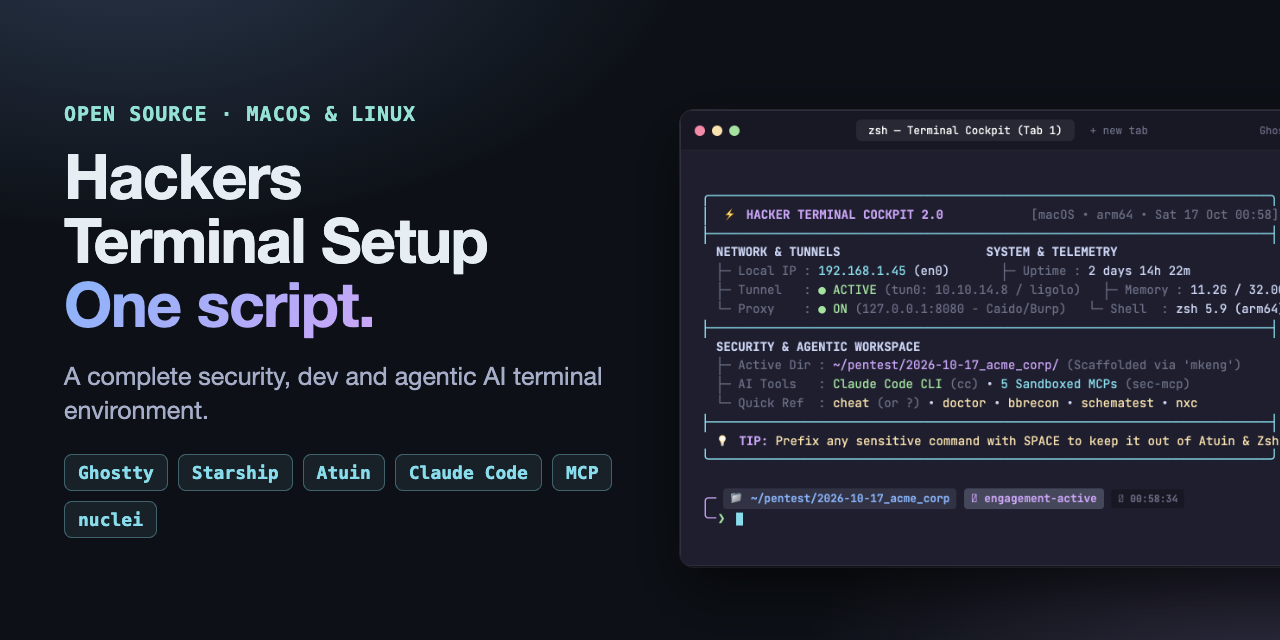
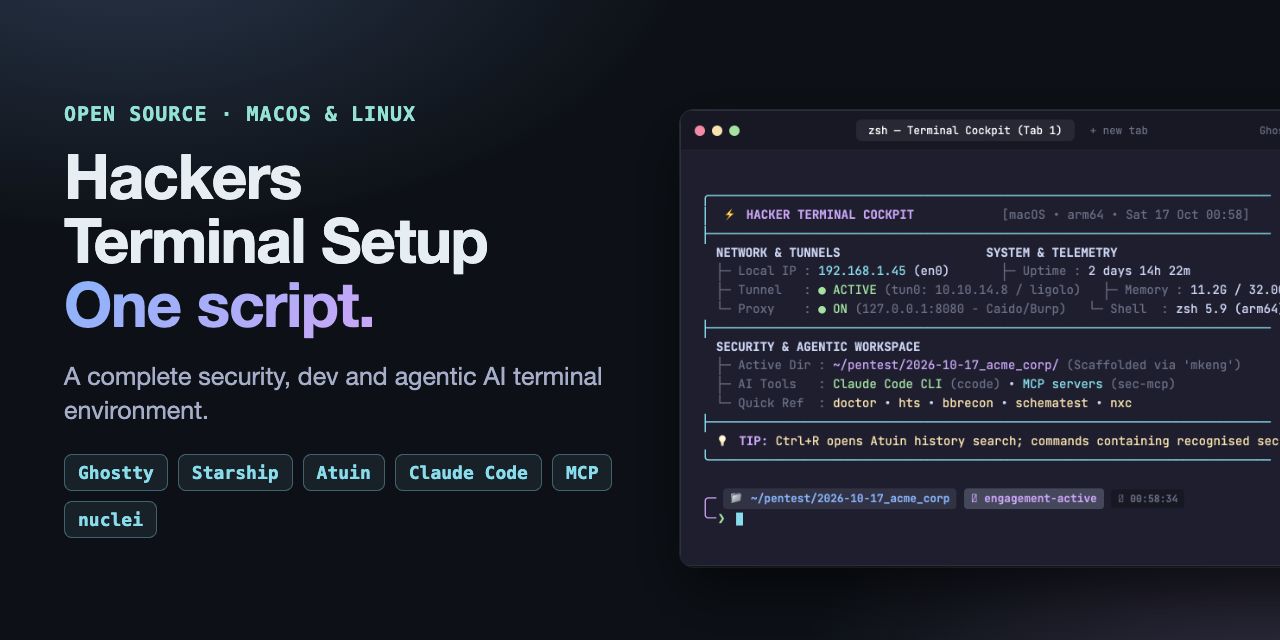
docs: regenerate demo GIF and social preview for 2.1

diff --git a/README.md b/README.md
@@ -7,7 +7,7 @@
 
 <p align="center">
   <a href="https://jinnu92.github.io/Hackers-terminal-setup/">
-    <img src="docs/demo.gif" alt="40-second tour of Hackers Terminal Setup: welcome cockpit, daily shell, Claude Code with MCP, security tooling and the profile builder" width="420">
+    <img src="docs/demo.gif" alt="Tour of Hackers Terminal Setup: welcome cockpit, daily shell, Claude Code with MCP, security tooling, the profile builder and lifecycle commands" width="420">
   </a>
 </p>
 
